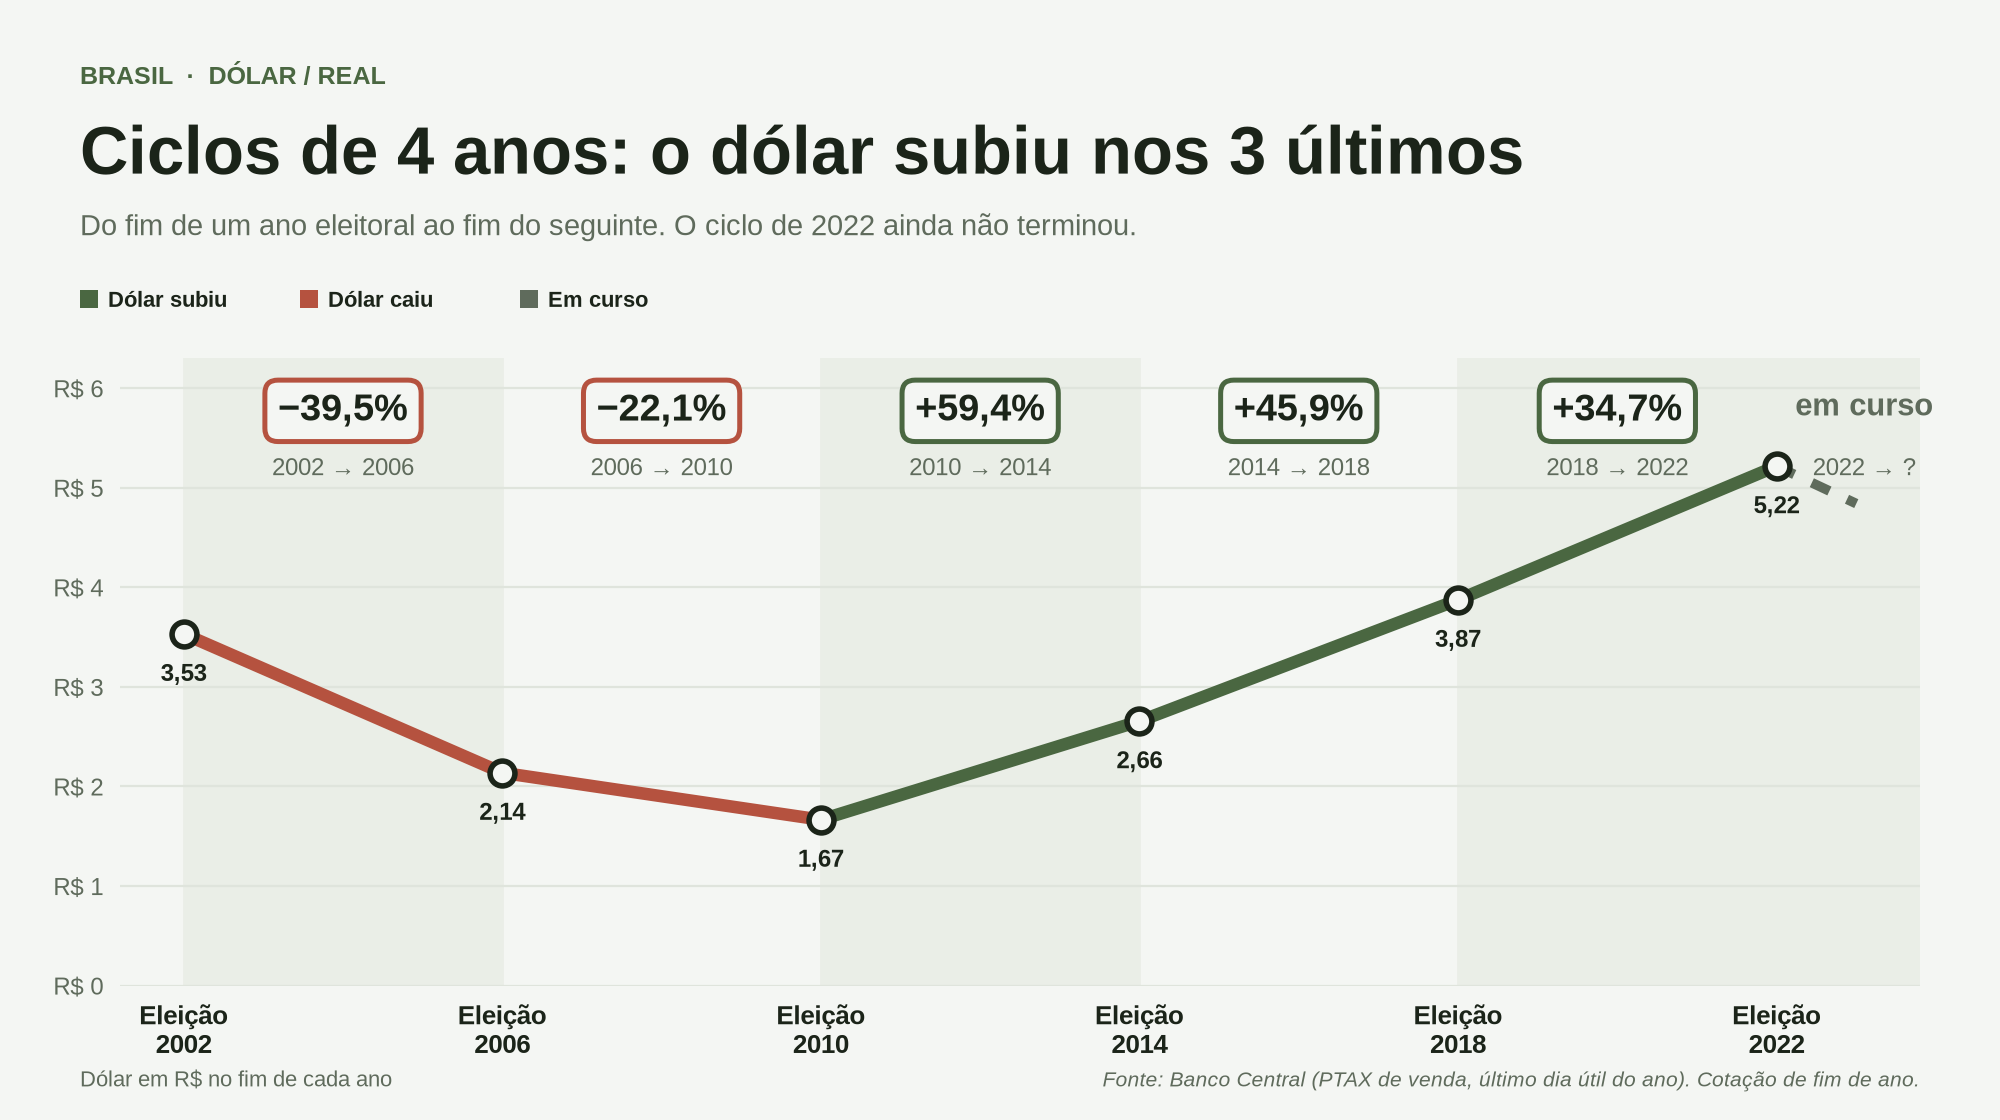
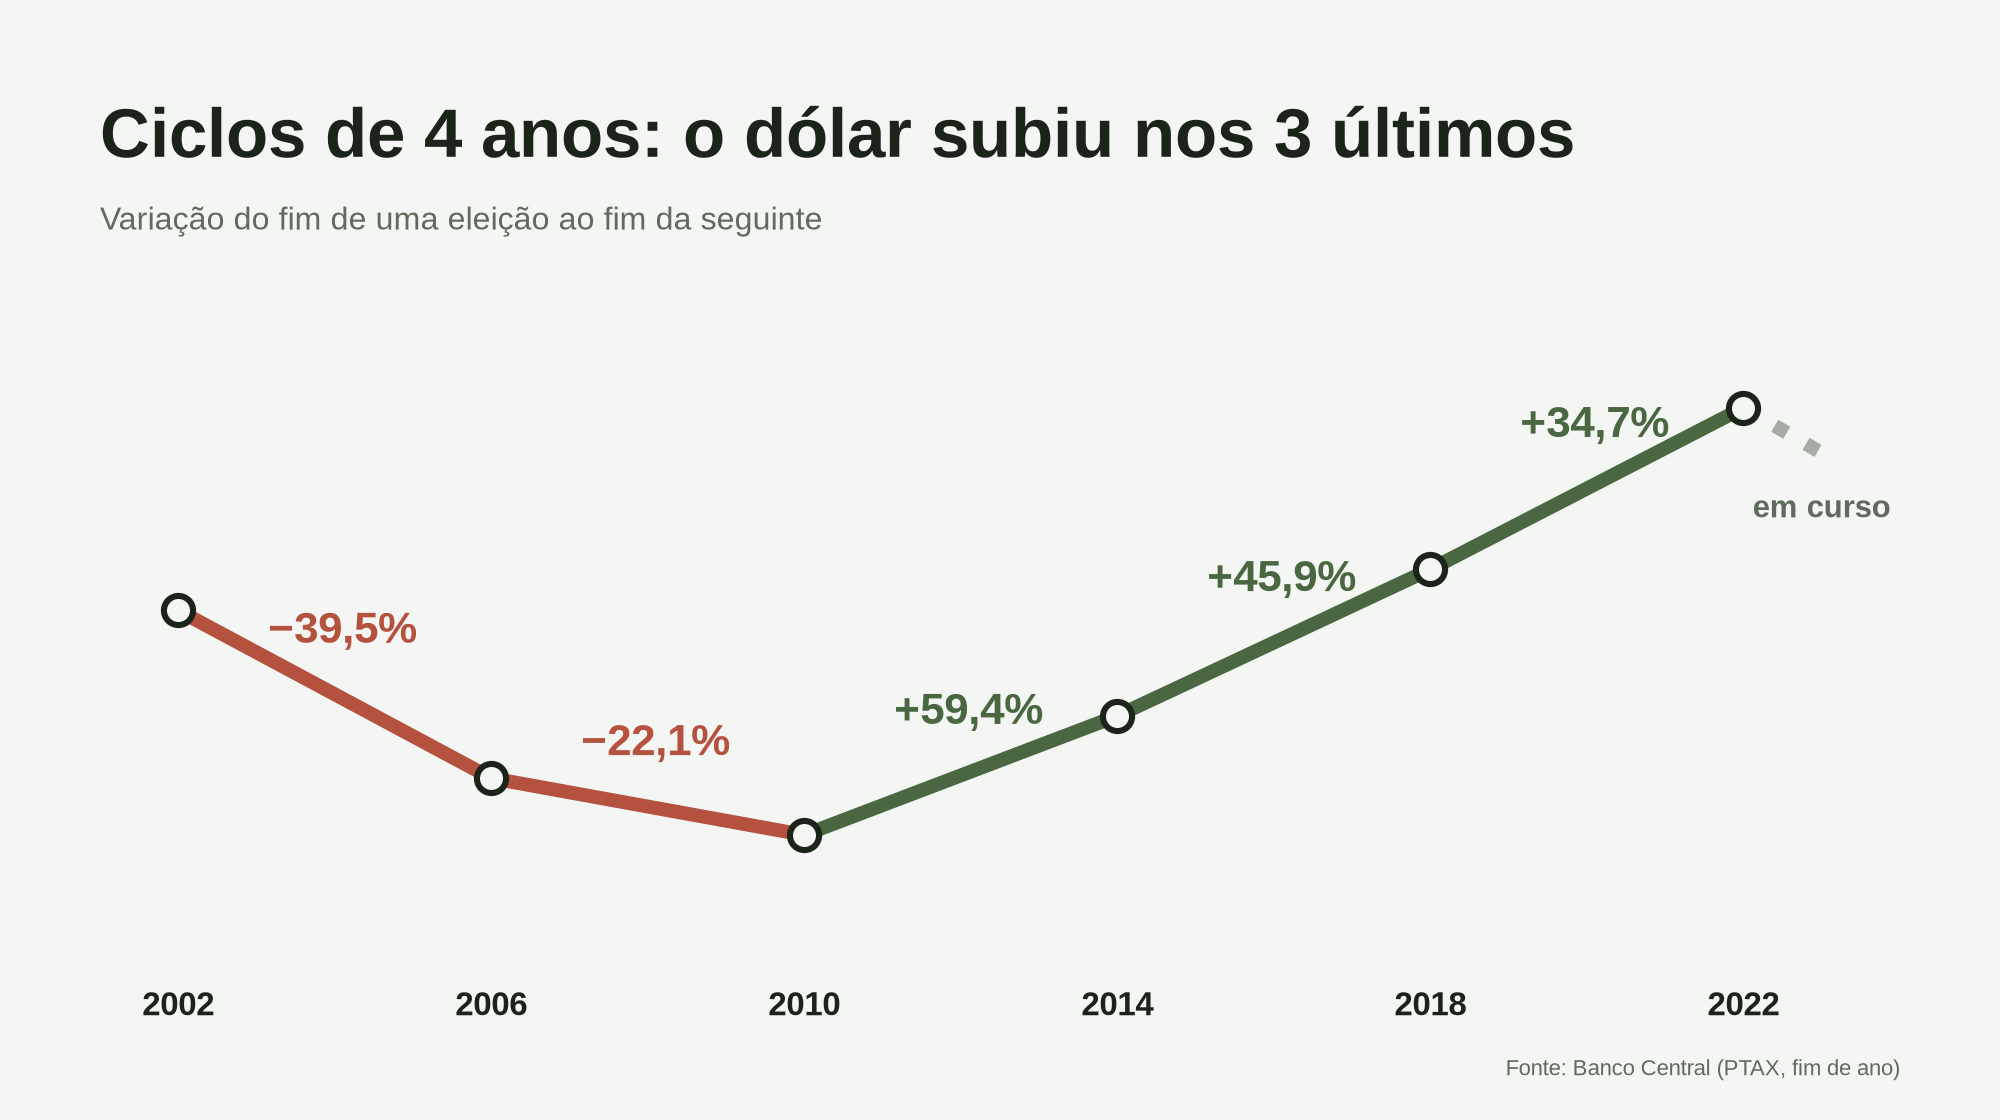
Simplifica gráficos de linha do tempo removendo poluição visual
Claude-Session: https://claude.ai/code/session_0199Y78iJYXbJq94ojXAjU9F

diff --git a/dolar_pos_eleicao.py b/dolar_pos_eleicao.py
@@ -27,65 +27,45 @@ UP, DOWN, DEST = "#4a6741", "#b5523f", "#25331f"
 fam = "Liberation Sans" if any("Liberation Sans" in f.name for f in fm.fontManager.ttflist) else "DejaVu Sans"
 plt.rcParams["font.family"] = fam
 
-def base(kicker, titulo, sub, legenda):
+def base(titulo, sub):
     fig = plt.figure(figsize=(10, 5.6), dpi=200, facecolor=BG)
-    fig.text(.04, .925, kicker, color=UP, fontsize=9, fontweight="bold")
-    fig.text(.04, .845, titulo, color=INK, fontsize=24, fontweight="bold")
-    fig.text(.04, .79, sub, color=MUTED, fontsize=10.5)
-    x = .04
-    for cor, lab, w in legenda:
-        fig.patches.append(plt.Rectangle((x, .725), .009, .016, transform=fig.transFigure, fc=cor))
-        fig.text(x + .014, .726, lab, color=INK, fontsize=8, fontweight="bold")
-        x += w
-    ax = fig.add_axes([.06, .12, .90, .56], facecolor=BG)
-    ax.set_xlim(2001.2, 2023.8); ax.set_ylim(0, 6.3)
-    ax.set_xticks(range(2002, 2024, 4) if False else [2002, 2006, 2010, 2014, 2018, 2022])
-    ax.set_xticklabels(["Eleição\n2002", "Eleição\n2006", "Eleição\n2010", "Eleição\n2014", "Eleição\n2018", "Eleição\n2022"],
-                       color=INK, fontsize=9.5, fontweight="bold")
-    ax.set_yticks(range(0, 7)); ax.set_yticklabels([f"R$ {t}" for t in range(0, 7)], color=MUTED, fontsize=8.5)
-    ax.tick_params(length=0, pad=6)
-    ax.grid(axis="y", color=GRID, lw=.8); ax.set_axisbelow(True)
+    fig.text(.05, .86, titulo, color=INK, fontsize=25, fontweight="bold")
+    fig.text(.05, .795, sub, color=MUTED, fontsize=11.5)
+    ax = fig.add_axes([.05, .14, .90, .58], facecolor=BG)
+    ax.set_xlim(2001, 2024); ax.set_ylim(0.6, 6.0)
+    ax.set_yticks([]); ax.tick_params(length=0, pad=10)
     for sp in ax.spines.values(): sp.set_visible(False)
-    fig.text(.96, .03, "Fonte: Banco Central (PTAX de venda, último dia útil do ano). Cotação de fim de ano.",
-             color=MUTED, fontsize=7.5, ha="right", style="italic")
-    fig.text(.04, .03, "Dólar em R$ no fim de cada ano", color=MUTED, fontsize=8)
+    ax.set_xticks(anos)
+    ax.set_xticklabels([str(a) for a in anos], color=INK, fontsize=12, fontweight="bold")
+    fig.text(.95, .04, "Fonte: Banco Central (PTAX, fim de ano)", color=MUTED, fontsize=8, ha="right")
     return fig, ax
 
 def rot(v): return f"{v:+.1f}%".replace(".", ",").replace("-", "\u2212")
+def cor(v): return UP if v > 0 else DOWN
 
-# ---- 1) Linha do tempo: 1 ano após cada eleição
-fig, ax = base("BRASIL  ·  DÓLAR / REAL", "O dólar no 1º ano depois de cada eleição",
-               "Cada trecho colorido liga o fim do ano da eleição ao fim do ano seguinte.",
-               [(UP, "Dólar subiu", .11), (DOWN, "Dólar caiu", .11)])
+# ---- 1) 1 ano depois de cada eleição
+fig, ax = base("O dólar no 1º ano depois da eleição",
+               "Variação do fim do ano eleitoral ao fim do ano seguinte")
+seq = [x for a in anos for x in (a, a + 1)]
+ax.plot(seq, [fim_ano[x] for x in seq], color="#cfd5cb", lw=3, zorder=0)
 for a in anos:
-    v = um_ano[a]; c = UP if v > 0 else DOWN
-    ax.axvline(a, color=GRID, lw=1.2, zorder=1)
-    ax.plot([a, a + 1], [fim_ano[a], fim_ano[a + 1]], color=c, lw=4.5, solid_capstyle="round", zorder=3)
-    ax.scatter([a], [fim_ano[a]], s=70, color=BG, edgecolor=INK, lw=1.8, zorder=4)
-    ax.scatter([a + 1], [fim_ano[a + 1]], s=70, color=c, edgecolor=c, zorder=4)
-    y = max(fim_ano[a], fim_ano[a + 1]) + .35
-    ax.annotate(rot(v), (a + .5, y), ha="center", va="bottom", fontsize=12.5, fontweight="bold",
-                color=INK, bbox=dict(boxstyle="round,pad=.3", fc=BG, ec=c, lw=1.6), zorder=5)
-    ax.text(a, fim_ano[a] - .28, f"{fim_ano[a]:.2f}".replace(".", ","), ha="center", va="top", fontsize=8, color=MUTED)
-    ax.text(a + 1.12, fim_ano[a + 1], f"{fim_ano[a + 1]:.2f}".replace(".", ","), ha="left", va="center", fontsize=8, color=MUTED)
+    v = um_ano[a]; c = cor(v)
+    ax.plot([a, a + 1], [fim_ano[a], fim_ano[a + 1]], color=c, lw=5, solid_capstyle="round")
+    ax.scatter([a, a + 1], [fim_ano[a], fim_ano[a + 1]], s=45, color=c, zorder=3)
+    ax.text(a + .5, max(fim_ano[a], fim_ano[a + 1]) + .3, rot(v), ha="center", va="bottom",
+            fontsize=16, fontweight="bold", color=c)
 fig.savefig("dolar_1_ano_pos_eleicao.png", facecolor=BG); plt.close(fig)
 
-# ---- 2) Linha do tempo: ciclos de 4 anos
-fig, ax = base("BRASIL  ·  DÓLAR / REAL", "Ciclos de 4 anos: o dólar subiu nos 3 últimos",
-               "Do fim de um ano eleitoral ao fim do seguinte. O ciclo de 2022 ainda não terminou.",
-               [(UP, "Dólar subiu", .11), (DOWN, "Dólar caiu", .11), (MUTED, "Em curso", .1)])
+# ---- 2) ciclos de 4 anos
+fig, ax = base("Ciclos de 4 anos: o dólar subiu nos 3 últimos",
+               "Variação do fim de uma eleição ao fim da seguinte")
 for k, a in enumerate(anos[:-1]):
-    b = anos[k + 1]; v = quatro[a]; c = UP if v > 0 else DOWN
-    if k % 2 == 0: ax.axvspan(a, b, color="#eaeee7", zorder=0)
-    ax.plot([a, b], [fim_ano[a], fim_ano[b]], color=c, lw=4.5, solid_capstyle="round", zorder=3)
-    ax.annotate(rot(v), ((a + b) / 2, 5.95), ha="center", va="top", fontsize=13.5, fontweight="bold",
-                color=INK, bbox=dict(boxstyle="round,pad=.35", fc=BG, ec=c, lw=1.8), zorder=5)
-    ax.text((a + b) / 2, 5.3, f"{a} \u2192 {b}", ha="center", va="top", fontsize=8.5, color=MUTED)
-ax.plot([2022, 2023], [fim_ano[2022], fim_ano[2023]], color=MUTED, lw=3.5, ls=(0, (2, 2)), zorder=3)
-ax.axvspan(2022, 2023.8, color="#eaeee7", zorder=0)
-ax.text(2023.1, 5.3, "2022 \u2192 ?", ha="center", va="top", fontsize=8.5, color=MUTED)
-ax.text(2023.1, 5.95, "em curso", ha="center", va="top", fontsize=11, fontweight="bold", color=MUTED)
-for a in anos:
-    ax.scatter([a], [fim_ano[a]], s=80, color=BG, edgecolor=INK, lw=2, zorder=4)
-    ax.text(a, fim_ano[a] - .3, f"{fim_ano[a]:.2f}".replace(".", ","), ha="center", va="top", fontsize=8.5, color=INK, fontweight="bold")
+    b = anos[k + 1]; v = quatro[a]; c = cor(v)
+    ax.plot([a, b], [fim_ano[a], fim_ano[b]], color=c, lw=5, solid_capstyle="round")
+    ym = (fim_ano[a] + fim_ano[b]) / 2
+    ax.text((a + b) / 2 + .1, ym + .35, rot(v), ha="center", va="bottom", fontsize=16, fontweight="bold", color=c)
+ax.plot([2022, 2023], [fim_ano[2022], fim_ano[2023]], color="#a5aca2", lw=5, ls=(0, (1, 1.6)), solid_capstyle="round")
+ax.text(2023, fim_ano[2023] - .35, "em curso", ha="center", va="top", fontsize=11, color=MUTED, fontweight="bold")
+ax.scatter(anos, [fim_ano[a] for a in anos], s=110, color=BG, edgecolor=INK, lw=2.2, zorder=3)
+ax.set_xticks(anos + [2023]); ax.set_xticklabels([str(a) for a in anos] + [""], color=INK, fontsize=12, fontweight="bold")
 fig.savefig("dolar_ciclo_4_anos.png", facecolor=BG); plt.close(fig)
